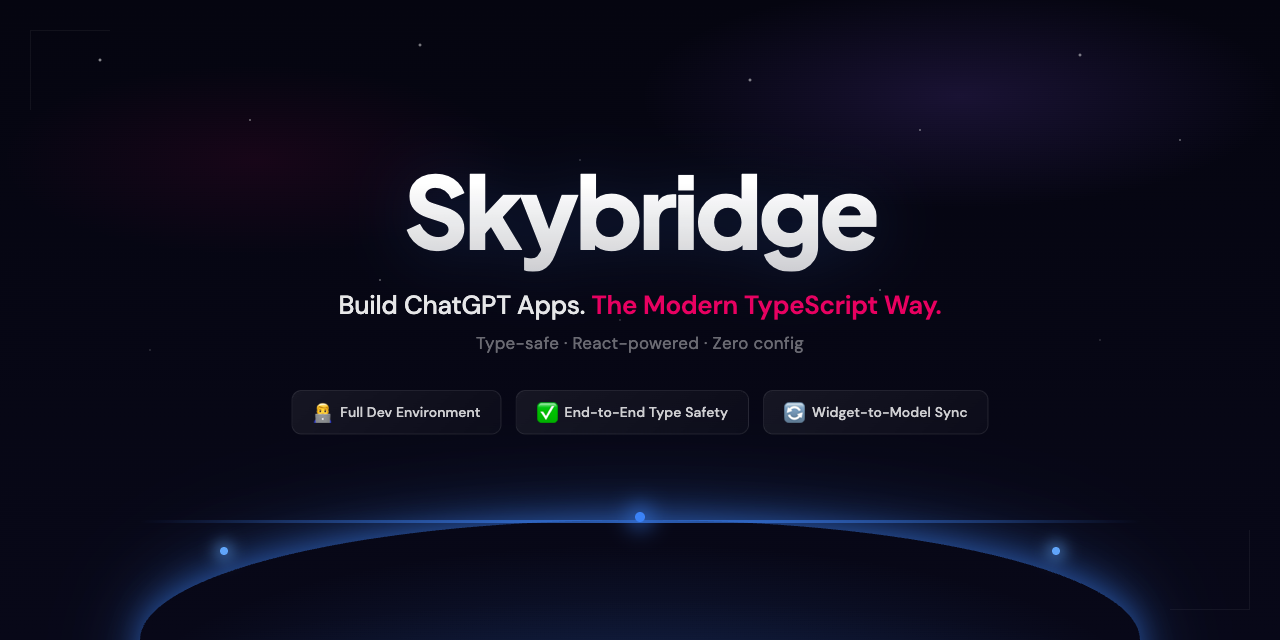
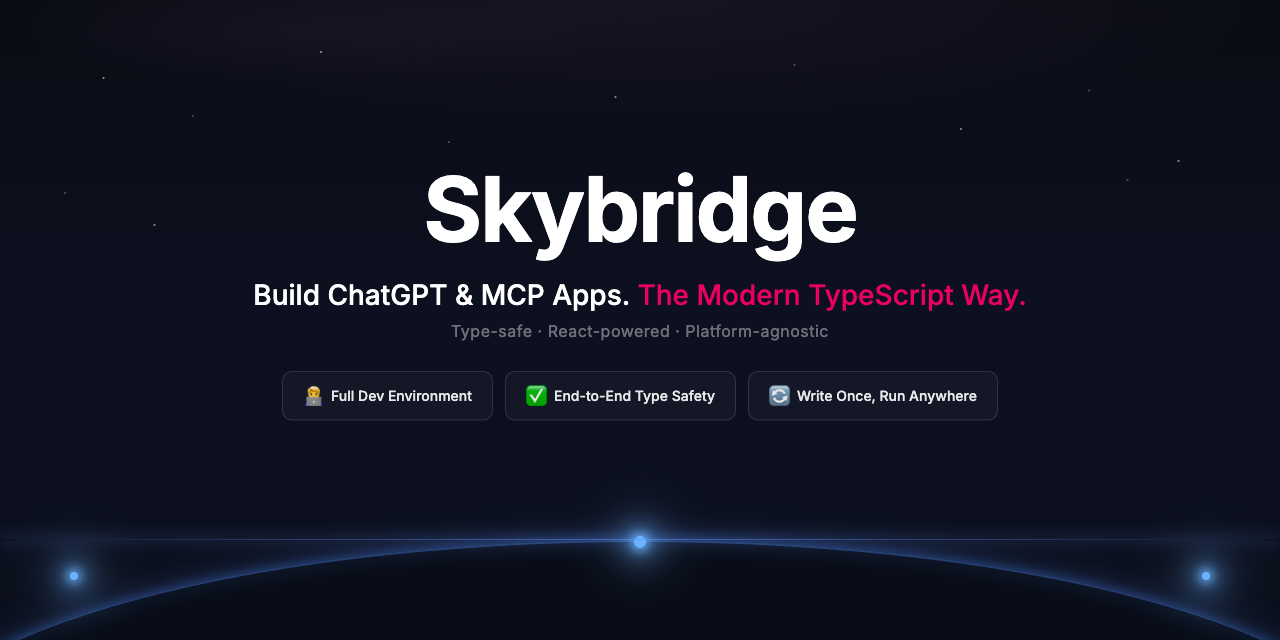
chore: update main readme

diff --git a/README.md b/README.md
@@ -1,15 +1,15 @@
 <div align="center">
 
-<img alt="Skybridge" src="docs/static/img/github-banner.png" width="100%">
+<img alt="Skybridge" src="docs/images/github-banner.png" width="100%">
 
 <br />
 
 # Skybridge
 
-**Build ChatGPT Apps. The Modern TypeScript Way.**
+**Build ChatGPT & MCP Apps. The Modern TypeScript Way.**
 
-The fullstack TypeScript framework for ChatGPT Apps.<br />
-**Type-safe. React-powered. Zero config.**
+The fullstack TypeScript framework for AI-embedded widgets.<br />
+**Type-safe. React-powered. Platform-agnostic.**
 
 <br />
 
@@ -19,7 +19,7 @@ The fullstack TypeScript framework for ChatGPT Apps.<br />
 
 <br />
 
-[Documentation](https://docs.skybridge.tech) · [Quick Start](https://github.com/new?template_name=apps-sdk-template&template_owner=alpic-ai) · [Examples](https://github.com/alpic-ai/apps-sdk-template)
+[Documentation](https://docs.skybridge.tech) · [Quick Start](https://docs.skybridge.tech/quickstart/create-new-app) · [Showcase](https://docs.skybridge.tech/showcase)
 
 </div>
 
@@ -27,7 +27,7 @@ The fullstack TypeScript framework for ChatGPT Apps.<br />
 
 ## ✨ Why Skybridge?
 
-ChatGPT Apps let you embed **rich, interactive UIs** directly in conversations. But the raw SDK is low-level—no hooks, no type safety, no dev tools, and no HMR.
+ChatGPT Apps and MCP Apps let you embed **rich, interactive UIs** directly in AI conversations. But the raw SDKs are low-level—no hooks, no type safety, no dev tools, and no HMR.
 
 **Skybridge fixes that.**
 
@@ -35,12 +35,13 @@ ChatGPT Apps let you embed **rich, interactive UIs** directly in conversations. 
 |:--|:--|
 | 👨💻 **Full Dev Environment** — HMR, debug traces, and local devtools. No more refresh loops. | ✅ **End-to-End Type Safety** — tRPC-style inference from server to widget. Autocomplete everywhere. |
 | 🔄 **Widget-to-Model Sync** — Keep the model aware of UI state with `data-llm`. Dual surfaces, one source of truth. | ⚒ **React Query-style Hooks** — `isPending`, `isError`, callbacks. State management you already know. |
+| 🌐 **Platform Agnostic** — Write once, run anywhere. Works with ChatGPT (Apps SDK) and MCP-compatible clients. | 📦 **Showcase Examples** — Production-ready examples to learn from and build upon. |
 
 <br />
 
 ## 🚀 Get Started
 
-**Create a new ChatGPT app:**
+**Create a new app:**
 
 ```bash
 npm create skybridge@latest
@@ -67,7 +68,8 @@ deno add skybridge
 ## 📦 The Stack
 
 - **`skybridge/server`** — Drop-in MCP SDK replacement with widget registration and type inference.
-- **`skybridge/web`** — React hooks and components for ChatGPT's runtime.
+- **`skybridge/web`** — React hooks for Apps SDK (ChatGPT) and MCP Apps runtimes.
+- **Dev Environment** — Vite plugin with HMR, DevTools emulator, and optimized builds.
 
 ### Server
 
@@ -90,8 +92,8 @@ import { useToolInfo } from "skybridge/web";
 function FlightsWidget() {
   const { output } = useToolInfo();
 
-  return output.structuredContent.flights.map(f =>
-    <FlightCard key={f.id} flight={f} />
+  return output.structuredContent.flights.map(flight =>
+    <FlightCard key={flight.id} flight={flight} />
   );
 }
 ```
@@ -105,7 +107,20 @@ function FlightsWidget() {
 - **Widget → Tool Calls** — Trigger server actions from UI.
 - **Dual Surface Sync** — Keep model aware of what users see with `data-llm`.
 - **React Query-style API** — `isPending`, `isError`, callbacks.
+- **Platform Agnostic** — Works with ChatGPT (Apps SDK) and MCP Apps clients (Goose, VSCode, etc.).
 - **MCP Compatible** — Extends the official SDK. Works with any MCP client.
+
+<br />
+
+## 📖 Showcase
+
+Explore production-ready examples:
+
+- **[Capitals Explorer](https://capitals.skybridge.tech/try)** — Interactive world map with geolocation and Wikipedia integration
+- **[Ecommerce Carousel](https://ecommerce.skybridge.tech/try)** — Product carousel with cart, localization, and modals
+- **[Everything](https://everything.skybridge.tech/try)** — Comprehensive playground showcasing all hooks and features
+
+See all examples in the [Showcase](https://docs.skybridge.tech/showcase) or browse the [examples/](examples/) directory.
 
 <br />
 
